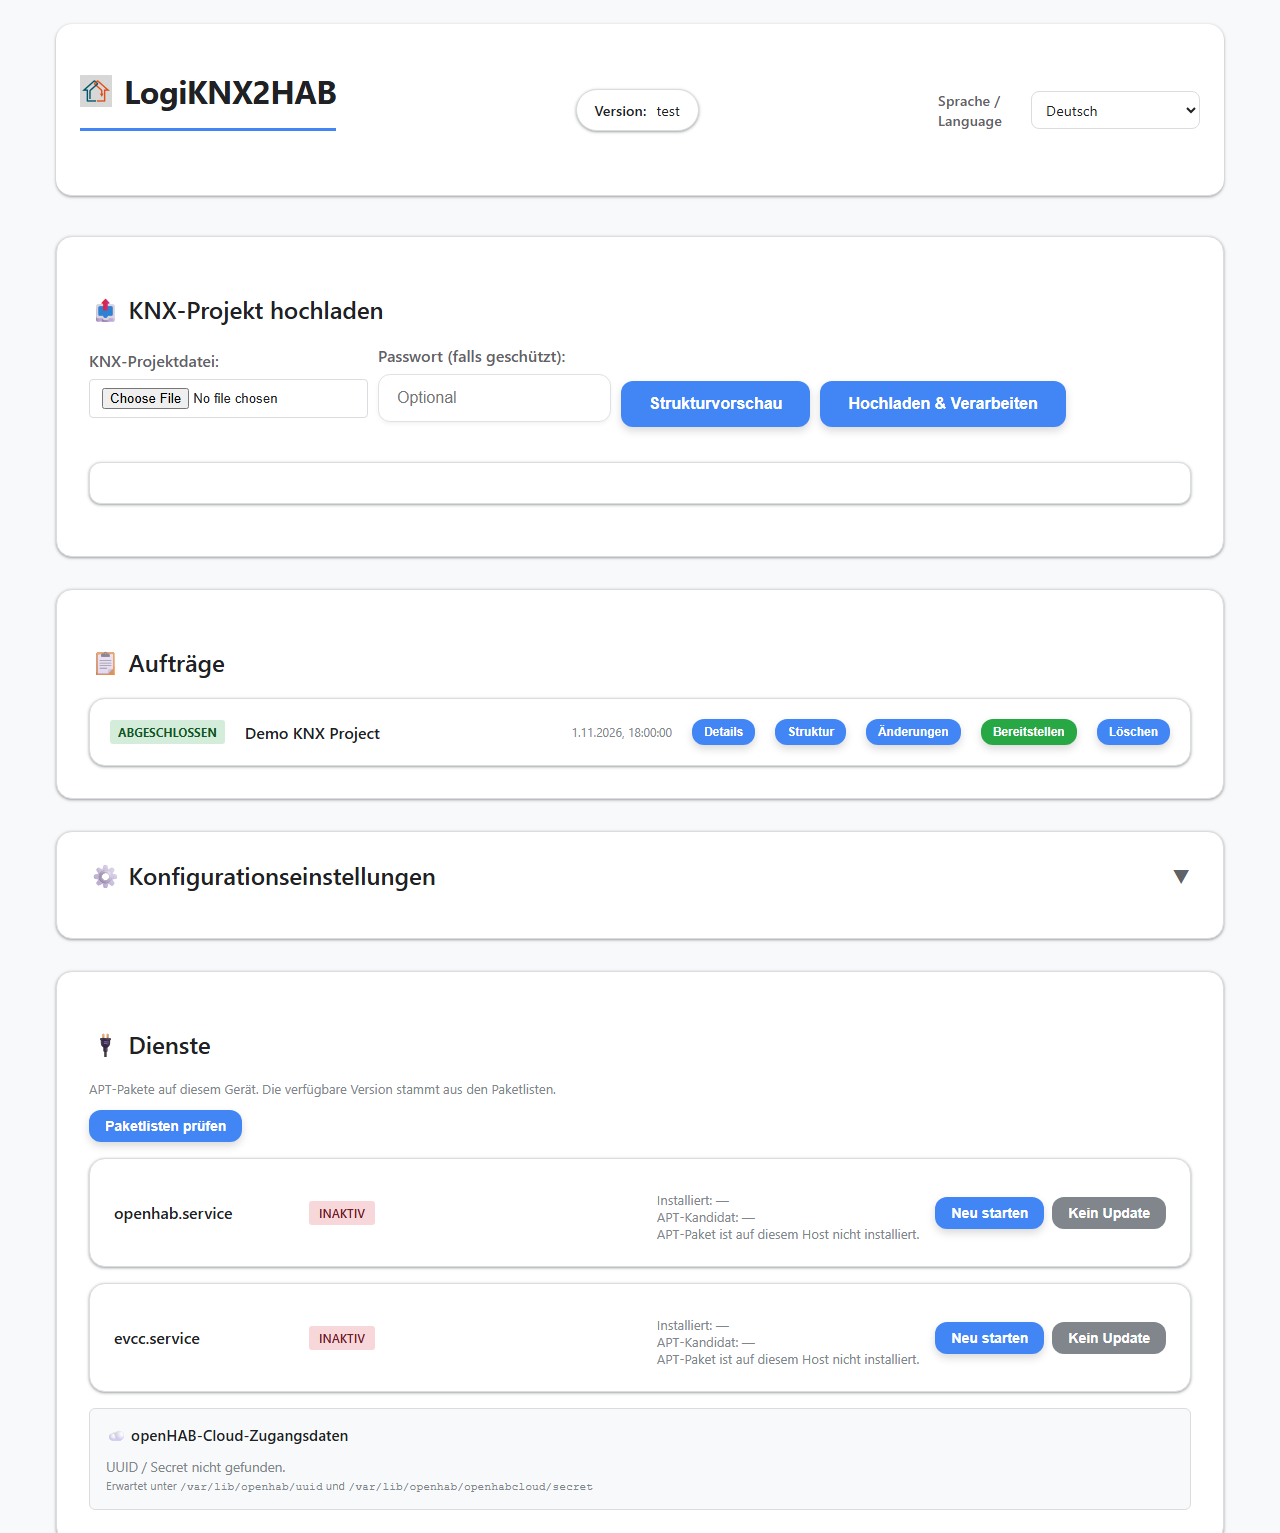
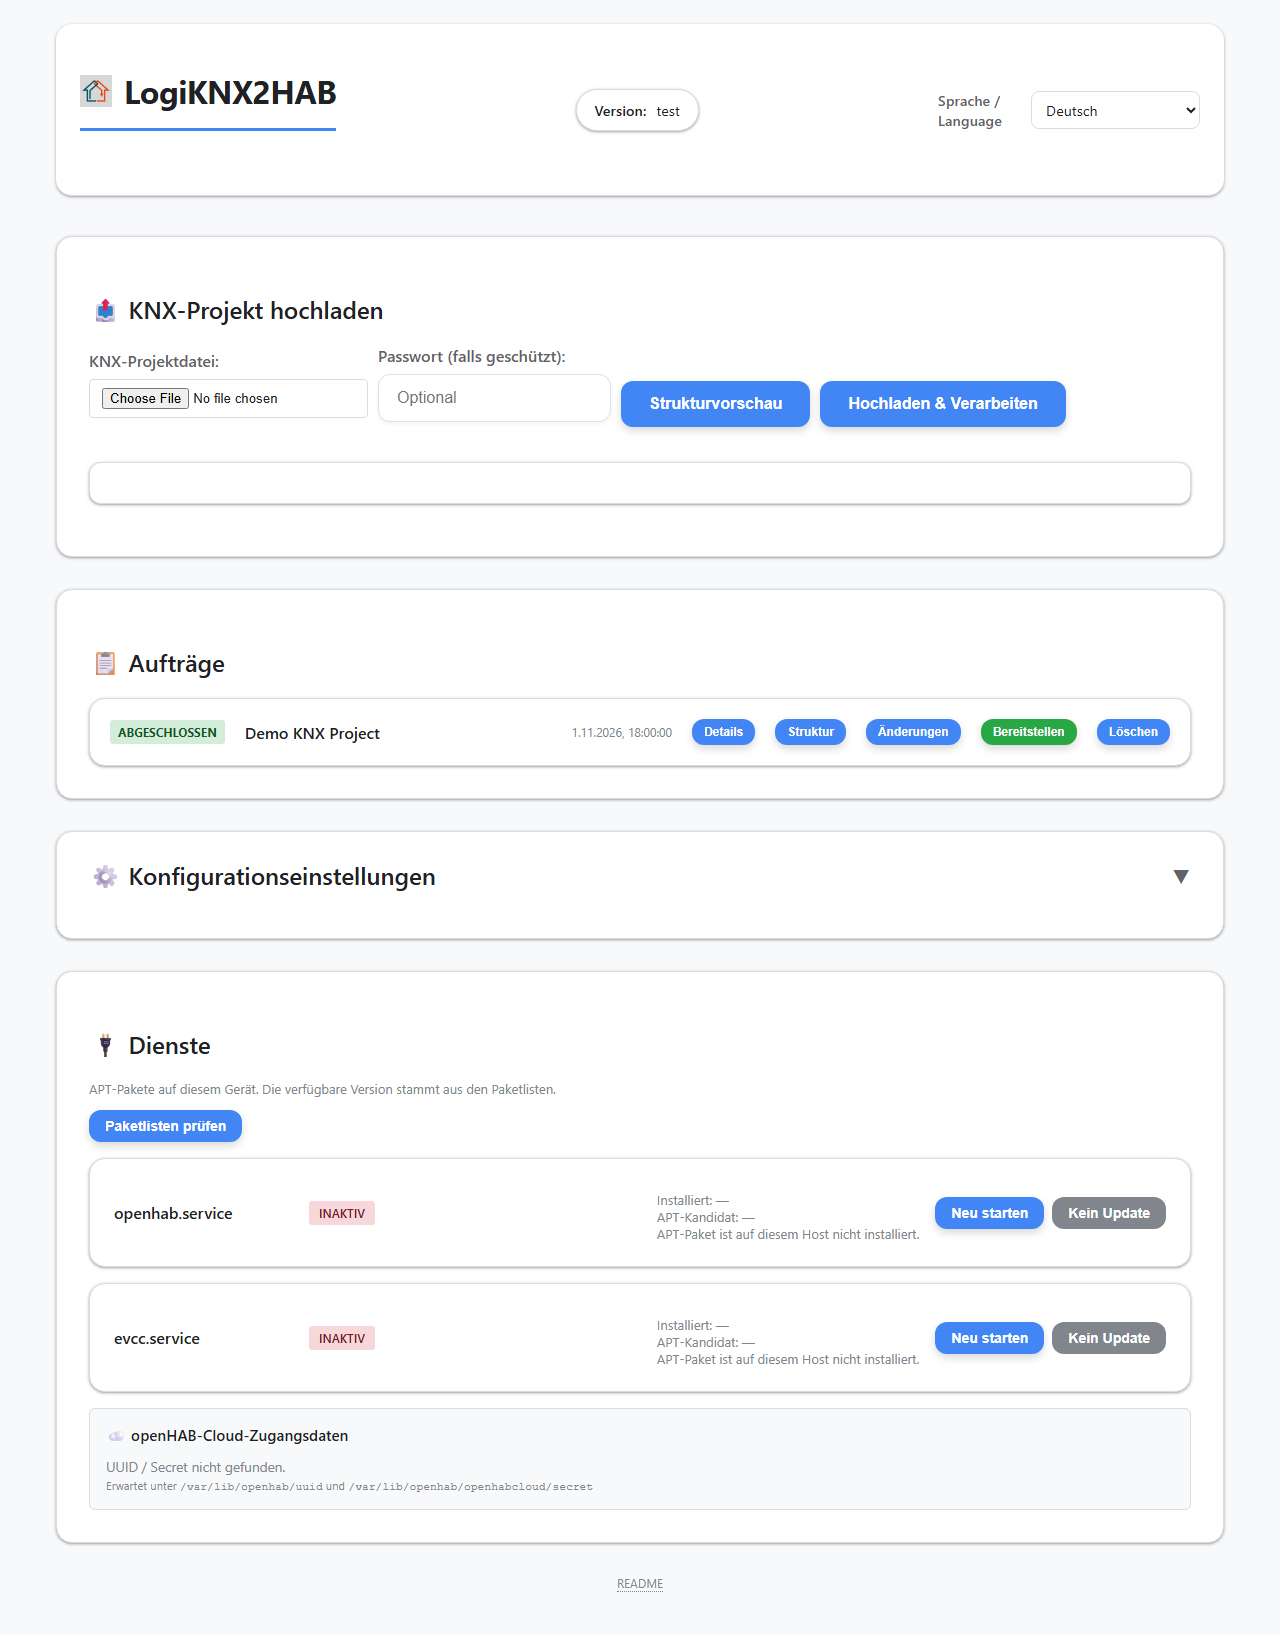
fix: close remaining localization review gaps

diff --git a/web_ui/static/app.js b/web_ui/static/app.js
@@ -87,9 +87,16 @@ function localizedJobStatus(status) {
   return window.I18N.catalogs[window.I18N.getLanguage()][key] ? window.I18N.t(key) : status
 }
 
+function selectedDateLocale() {
+  return window.I18N.getLanguage() === 'de' ? 'de-DE' : 'en-US'
+}
+
 function localizedDateTime(value) {
-  const locale = window.I18N.getLanguage() === 'de' ? 'de-DE' : 'en-US'
-  return new Date(value).toLocaleString(locale)
+  return new Date(value).toLocaleString(selectedDateLocale())
+}
+
+function localizedTime(value) {
+  return new Date(value).toLocaleTimeString(selectedDateLocale())
 }
 
 function setLocalizedMessage(element, key, params = {}, className = null) {
@@ -285,7 +292,7 @@ function showJobDetail(jobId) {
             return { level: 'info', text: entry }
           } else if (typeof entry === 'object' && entry.text) {
             // New format: {level, text}
-            return { level: entry.level || 'info', text: entry.text }
+            return { level: entry.level || 'info', text: entry.text, timestamp: entry.timestamp }
           }
           return { level: 'info', text: String(entry) }
         })
@@ -841,13 +848,11 @@ function renderPackageOperationError(statusEl) {
 
 function renderPackageOperationStatus(task) {
   const statusEl = document.getElementById('packageOperationStatus')
-  if (!statusEl || !task || task.state === 'idle') {
-    if (statusEl) {
-      if (!renderPackageOperationError(statusEl)) {
-        clearLocalizedMessage(statusEl)
-        statusEl.textContent = ''
-      }
-    }
+  if (!statusEl) return
+  if (renderPackageOperationError(statusEl)) return
+  if (!task || task.state === 'idle') {
+    clearLocalizedMessage(statusEl)
+    statusEl.textContent = ''
     return
   }
   setLocalizedMessage(statusEl, 'service.packageStatus', {
@@ -880,8 +885,6 @@ function startPackageOperationPolling() {
       if (!response.ok) throw new Error('Status unavailable')
       const task = await response.json()
       currentPackageTask = task
-      currentPackageOperationError = null
-      currentPackageOperationErrorHasPrefix = false
       renderPackageOperationStatus(task)
       if (task.state === 'running') {
         if (packagePollCompletionStage > 0) {
@@ -899,7 +902,9 @@ function startPackageOperationPolling() {
         document.getElementById('refreshPackagesBtn').disabled = false
       }
     } catch (e) {
-      setLocalizedMessage(statusEl, 'service.statusUnavailable', { error: e.message })
+      if (!renderPackageOperationError(statusEl)) {
+        setLocalizedMessage(statusEl, 'service.statusUnavailable', { error: e.message })
+      }
     } finally {
       packagePollInFlight = false
       if (continuePolling || packagePollRequested) packagePollTimeout = setTimeout(poll, 2000)
@@ -995,6 +1000,9 @@ async function refreshServices() {
 
 async function startPackageOperation(action, version = null) {
   const statusEl = document.getElementById('packageOperationStatus')
+  currentPackageOperationError = null
+  currentPackageOperationErrorHasPrefix = false
+  renderPackageOperationStatus(currentPackageTask)
   try {
     const response = await apiFetch(`/api/service/updates/${action}`, {
       method: 'POST', headers: { 'X-Requested-With': 'XMLHttpRequest', 'Content-Type': 'application/json' },
@@ -1213,7 +1221,8 @@ function renderLog() {
   // Render with color coding based on log level
   const html = filtered.map(entry => {
     const levelClass = `log-level-${entry.level}`
-    return `<div class="log-entry ${levelClass}">${escapeHtml(window.I18N.translateMessage(entry.text))}</div>`
+    const timestamp = entry.timestamp != null ? `[${localizedTime(entry.timestamp)}] ` : ''
+    return `<div class="log-entry ${levelClass}">${escapeHtml(timestamp + window.I18N.translateMessage(entry.text))}</div>`
   }).join('')
 
   clearLocalizedMessage(logEl)
@@ -1237,9 +1246,12 @@ document.addEventListener('knx-language-change', () => {
   updateGatewayFormatControls()
   updateGatewayLiveActionControls()
   const filePreviewDialog = document.getElementById('filePreviewDialog')
-  if (filePreviewDialog?.open && currentJobDiff
-      && document.getElementById('diffContent').style.display !== 'none') {
-    renderJobDiff(currentJobDiff.jobId, currentJobDiff.diffs)
+  if (filePreviewDialog?.open && document.getElementById('diffContent').style.display !== 'none') {
+    if (currentJobDiff) {
+      renderJobDiff(currentJobDiff.jobId, currentJobDiff.diffs)
+    } else if (currentPreviewData) {
+      switchViewMode('diff')
+    }
   }
   const updateDialog = document.getElementById('updateDialog')
   if (updateDialog?.open && latestVersionData) renderUpdateDialog(latestVersionData)
@@ -1999,7 +2011,10 @@ async function saveConfig(reprocess = false) {
       body: JSON.stringify(newConfig)
     })
 
-    if (!res.ok) throw new Error('Failed to save config')
+    if (!res.ok) {
+      setLocalizedMessage(configStatus, 'config.saveFailed', {}, 'status-message error')
+      return
+    }
 
     currentConfig = newConfig
     await loadGatewayState()
@@ -2364,15 +2379,15 @@ function startEvents(jobId) {
               try {
                 const data = JSON.parse(line.substring(6)); // Remove 'data: ' prefix
                 const level = data.level || 'info';
-                const timestamp = new Date().toLocaleTimeString();
+                const timestamp = data.timestamp ?? Date.now()
                 let text = '';
 
                 if (data.type === 'stats') {
-                  text = `[${timestamp}] [STATS] ${data.message}`;
+                  text = `[STATS] ${data.message}`;
                 } else if (data.type === 'backup') {
-                  text = `[${timestamp}] [BACKUP] ${data.message}`;
+                  text = `[BACKUP] ${data.message}`;
                 } else if (data.type === 'status') {
-                  text = `[${timestamp}] [STATUS] ${data.message}`;
+                  text = `[STATUS] ${data.message}`;
                   // If status is completed or failed, we can update the UI immediately
                   if (data.message.includes('completed') || data.message.includes('failed')) {
                     refreshJobs();
@@ -2403,13 +2418,13 @@ function startEvents(jobId) {
                       }).catch(err => console.error('Error fetching final job data:', err));
                   }
                 } else if (data.type === 'error') {
-                  text = `[${timestamp}] [ERROR] ${data.message}`;
+                  text = `[ERROR] ${data.message}`;
                 } else {
                   const levelStr = level.toUpperCase();
-                  text = `[${timestamp}] [${levelStr}] ${data.message}`;
+                  text = `[${levelStr}] ${data.message}`;
                 }
 
-                allLogEntries.push({ level, text });
+                allLogEntries.push({ level, text, timestamp });
                 renderLog();
               } catch (e) {
                 console.error('Error parsing event data:', e);

diff --git a/tests/ui/test_language.py b/tests/ui/test_language.py
@@ -426,6 +426,38 @@ def test_empty_diff_dialog_copy_refreshes_after_language_change(page: Page, flas
 
 
 @pytest.mark.ui
+def test_empty_file_preview_diff_refreshes_after_language_change(page: Page, flask_server):
+    _stub_background_apis(page)
+    page.route(
+        "**/api/file/preview**",
+        lambda route: route.fulfill(
+            status=200,
+            content_type="application/json",
+            body=json.dumps(
+                {"path": "openhab/things/empty.things", "content": "Thing example {}", "size": 16}
+            ),
+        ),
+    )
+    page.route(
+        "**/api/job/preview-empty-diff/file/diff**",
+        lambda route: route.fulfill(
+            status=200,
+            content_type="application/json",
+            body="[]",
+        ),
+    )
+    page.goto(flask_server, wait_until="domcontentloaded")
+    page.evaluate("currentJobId = 'preview-empty-diff'")
+    page.evaluate("previewFile('openhab/things/empty.things')")
+    expect(page.locator("#filePreviewDialog[open]")).to_be_visible()
+    page.locator("#viewModeDiff").click()
+    expect(page.locator("#diffContent")).to_contain_text("(leerer Diff)")
+
+    page.evaluate("window.I18N.setLanguage('en')")
+    expect(page.locator("#diffContent")).to_contain_text("(empty diff)")
+
+
+@pytest.mark.ui
 def test_open_update_dialog_dates_follow_selected_language(page: Page, flask_server):
     timestamp = "2024-01-02T12:00:00Z"
     update_data = {
@@ -621,6 +653,89 @@ def test_package_operation_errors_follow_selected_language(
 
 
 @pytest.mark.ui
+def test_package_action_error_overrides_non_idle_task_after_locale_change(page: Page, flask_server):
+    _stub_background_apis(
+        page,
+        package_operation_error="No APT update is available for this package.",
+        package_task={"action": "refresh", "state": "running", "message": "Starting APT…"},
+    )
+    page.goto(flask_server, wait_until="domcontentloaded")
+    page.wait_for_function("currentPackageTask && currentPackageTask.state === 'running'")
+    page.evaluate("startPackageOperation('openhab')")
+    status = page.locator("#packageOperationStatus")
+    expect(status).to_have_text("Für dieses Paket ist kein APT-Update verfügbar.")
+
+    page.get_by_role("combobox", name="Sprache / Language").select_option("en")
+    expect(status).to_have_text("No APT update is available for this package.")
+    with page.expect_response(
+        lambda response: response.url.endswith("/api/service/updates/status")
+    ):
+        page.evaluate("startPackageOperationPolling()")
+    expect(status).to_have_text("No APT update is available for this package.")
+
+
+@pytest.mark.ui
+def test_package_action_error_survives_failed_status_poll(page: Page, flask_server):
+    error = "No APT update is available for this package."
+    _stub_background_apis(page, package_operation_error=error)
+    page.route(
+        "**/api/service/updates/status",
+        lambda route: route.fulfill(
+            status=503,
+            content_type="application/json",
+            body=json.dumps({"error": "temporary status failure"}),
+        ),
+    )
+    page.goto(flask_server, wait_until="domcontentloaded")
+    page.evaluate("startPackageOperation('openhab')")
+
+    status = page.locator("#packageOperationStatus")
+    expect(status).to_have_text("Für dieses Paket ist kein APT-Update verfügbar.")
+    with page.expect_response(
+        lambda response: response.url.endswith("/api/service/updates/status")
+    ):
+        page.evaluate("startPackageOperationPolling()")
+    expect(status).to_have_text("Für dieses Paket ist kein APT-Update verfügbar.")
+
+    page.get_by_role("combobox", name="Sprache / Language").select_option("en")
+    expect(status).to_have_text(error)
+
+
+@pytest.mark.ui
+def test_live_log_timestamps_follow_selected_language(page: Page, flask_server):
+    timestamp = 1704196800000
+    event = {
+        "type": "info",
+        "level": "info",
+        "message": "live log locale marker",
+        "timestamp": timestamp,
+    }
+    _stub_background_apis(page)
+    page.route(
+        "**/api/job/log-locale/events",
+        lambda route: route.fulfill(
+            status=200,
+            content_type="text/event-stream",
+            body=f"data: {json.dumps(event)}\n\n",
+        ),
+    )
+    page.goto(flask_server, wait_until="domcontentloaded")
+    page.evaluate("startEvents('log-locale')")
+
+    expected = page.evaluate(
+        "timestamp => ({de: new Date(timestamp).toLocaleTimeString('de-DE'), "
+        "en: new Date(timestamp).toLocaleTimeString('en-US')})",
+        timestamp,
+    )
+    assert expected["de"] != expected["en"]
+    log = page.locator("#log")
+    expect(log).to_contain_text(f"[{expected['de']}] [INFO] live log locale marker")
+
+    page.get_by_role("combobox", name="Sprache / Language").select_option("en")
+    expect(log).to_contain_text(f"[{expected['en']}] [INFO] live log locale marker")
+
+
+@pytest.mark.ui
 def test_locally_generated_structure_errors_follow_selected_language(page: Page, flask_server):
     _stub_background_apis(page)
     page.route(
@@ -705,6 +820,25 @@ def test_settings_feedback_localizes_without_resetting_edited_values_or_file(
     expect(page.locator("#configStatus")).to_have_text("✓ Konfiguration gespeichert")
     expect(page.locator("#conf-yaml-path")).to_have_value("openhab/yaml/edited.yaml")
     expect(page.locator("#fileInput")).to_have_value(re.compile("mein-projekt.knxproj"))
+
+
+@pytest.mark.ui
+def test_failed_config_save_follows_selected_language(page: Page, flask_server):
+    _stub_background_apis(page, config_save_error="temporary save failure")
+    page.goto(flask_server, wait_until="domcontentloaded")
+    expect(page.locator("#configStatus")).to_have_text("✓ Konfiguration geladen")
+    page.locator("#settings-section .card-header").click()
+
+    with page.expect_response(
+        lambda response: response.url.endswith("/api/config") and response.request.method == "POST"
+    ) as save_response:
+        page.locator("#settings-content .settings-actions .btn-primary").click()
+    assert save_response.value.status == 500
+    status = page.locator("#configStatus")
+    expect(status).to_have_text("Konfiguration konnte nicht gespeichert werden")
+
+    page.get_by_role("combobox", name="Sprache / Language").select_option("en")
+    expect(status).to_have_text("Failed to save configuration")
 
 
 @pytest.mark.ui

diff --git a/tests/ui/test_upload_security.py b/tests/ui/test_upload_security.py
@@ -124,16 +124,16 @@ class TestUploadSecurityUI:
         # Upload valid file
         file_input.set_input_files(test_file)
 
-        # Submit
-        page.locator("button[type='submit']").click()
+        # The upload endpoint accepts the project before asynchronous job processing starts.
+        with page.expect_response(
+            lambda response: response.url.endswith("/api/upload")
+            and response.request.method == "POST"
+        ) as upload_response:
+            page.locator("button[type='submit']").click()
 
-        # Wait for job creation
-        status_div = page.locator("#status")
-        expect(status_div).to_be_visible()
-        expect(status_div).to_contain_text(
-            re.compile(r"Processing started|File uploaded, job started"),
-            timeout=20000,
-        )
+        response = upload_response.value
+        assert response.status == 201
+        assert response.json().get("id")
 
         # Take screenshot of successful upload
         page.screenshot(
